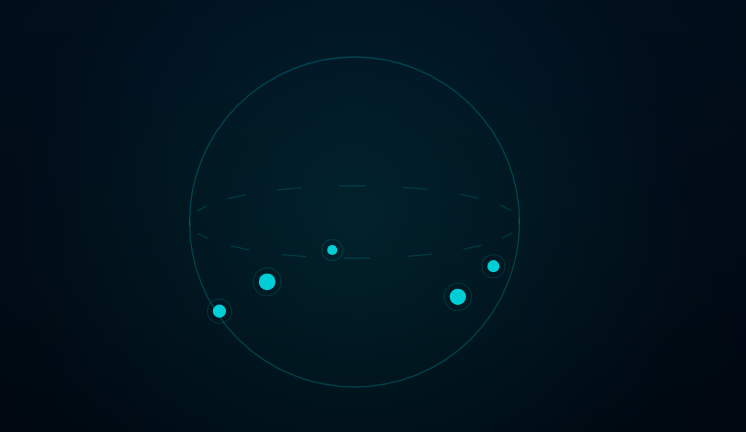
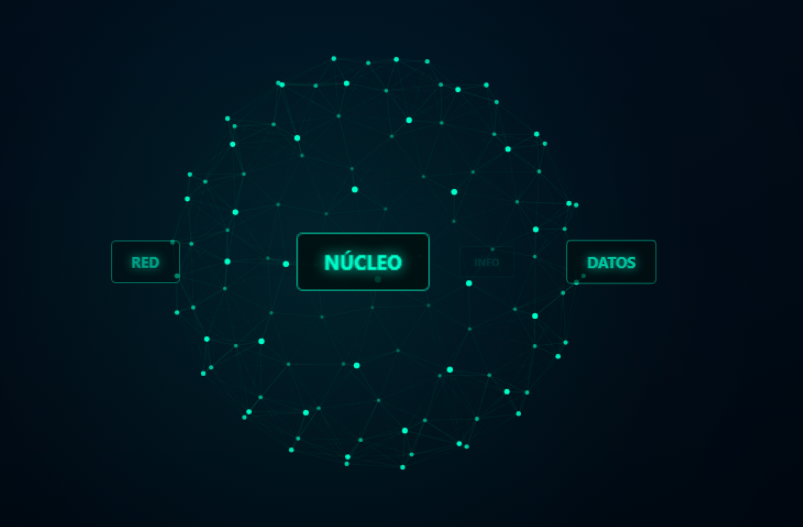
Cambiamos Sphere Single por Sphere Menu

diff --git a/es/projects/neural-sphere-core/styles.css b/es/projects/neural-sphere-core/styles.css
@@ -101,7 +101,7 @@
     body { margin: 0; background: #010808; overflow: hidden; font-family: 'Segoe UI', sans-serif; }
         #canvas-container { 
             position: relative; 
-            width: 100vw; height: 100vh; 
+            width: 75vw; height: 75vh; 
         }
         
         canvas { display: block; }